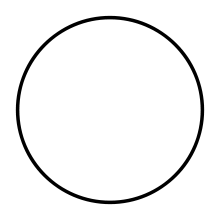
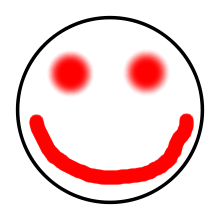
feat(point): use images for points
related to #3

Changed region(s): [[0.1091, 0.5182, 0.9, 0.8455], [0.5455, 0.2182, 0.7636, 0.4364], [0.2182, 0.2182, 0.4364, 0.4364]]

diff --git a/style.css b/style.css
@@ -59,14 +59,15 @@ body {
   width: 50px;
   height: 50px;
   border-radius: 50%;
-  background: rgba(255, 255, 255, 0.5);
-  border: 3px solid rgba(0, 0, 0, .4);
-  box-shadow: rgba(0, 0, 0, .3) 0 2px 3px;
+  background-image: url("ui/point.png");
+  background-size: 50px 50px;
+  background-position: center center;
+  background-repeat: no-repeat;
   cursor: pointer;
 }
 
 .point:hover {
-  background: rgba(0, 0, 0, .4);
+  background-image: url("ui/point-hover.png");
 }
 
 .view {

diff --git a/webpack.config.js b/webpack.config.js
@@ -15,6 +15,10 @@ module.exports = {
       }
     ],
     loaders : [
+      {
+        test: /\.(jpe?g|png|gif|svg)$/i,
+        loader: 'file?hash=sha512&digest=hex&name=[hash].[ext]'
+      },
       { test: /\.js$/, exclude: /node_modules/, loader: 'babel-loader' },
       { test: /\.css/, exclude: /node_modules/, loader: 'style-loader!css-loader!autoprefixer-loader' }
     ]

diff --git a/scenario.js b/scenario.js
@@ -30,10 +30,5 @@ module.exports = {
     cells: [
       { src: 'S1case6a.jpg' }
     ]
-  },
-  end: {
-    cells: [
-      { src: 'uuuuh.jpg' }
-    ]
   }
 };
